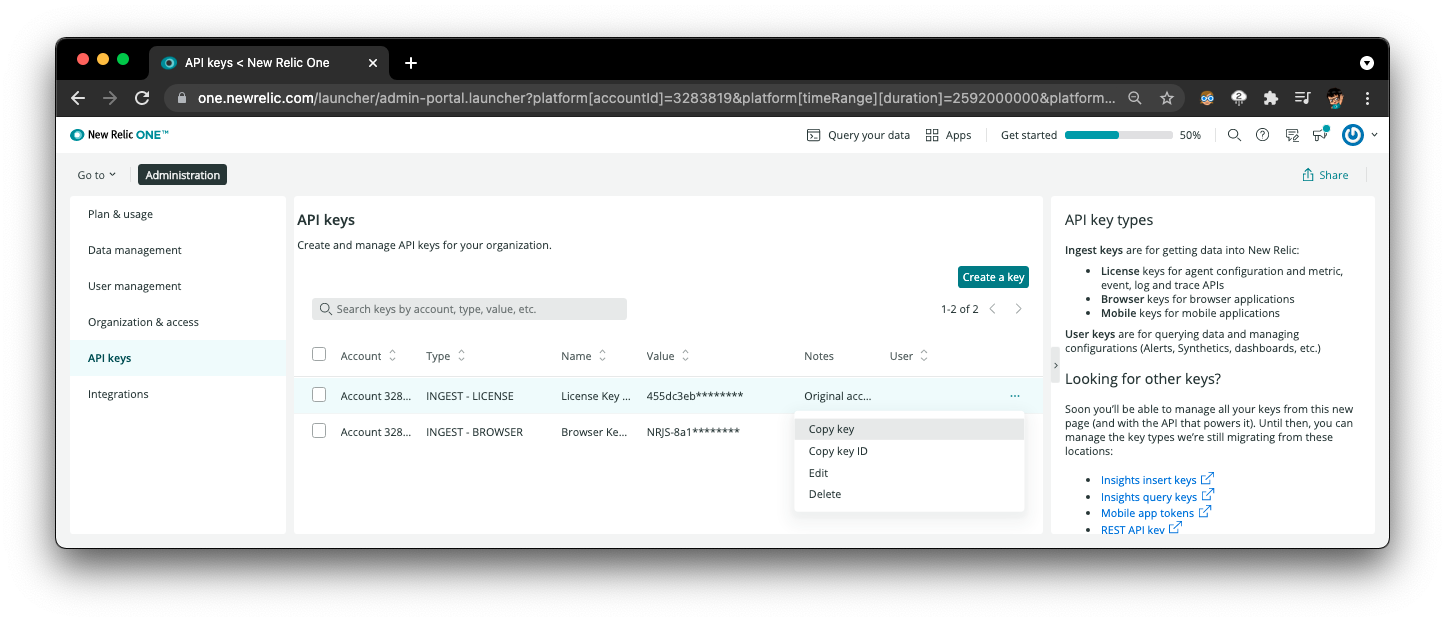
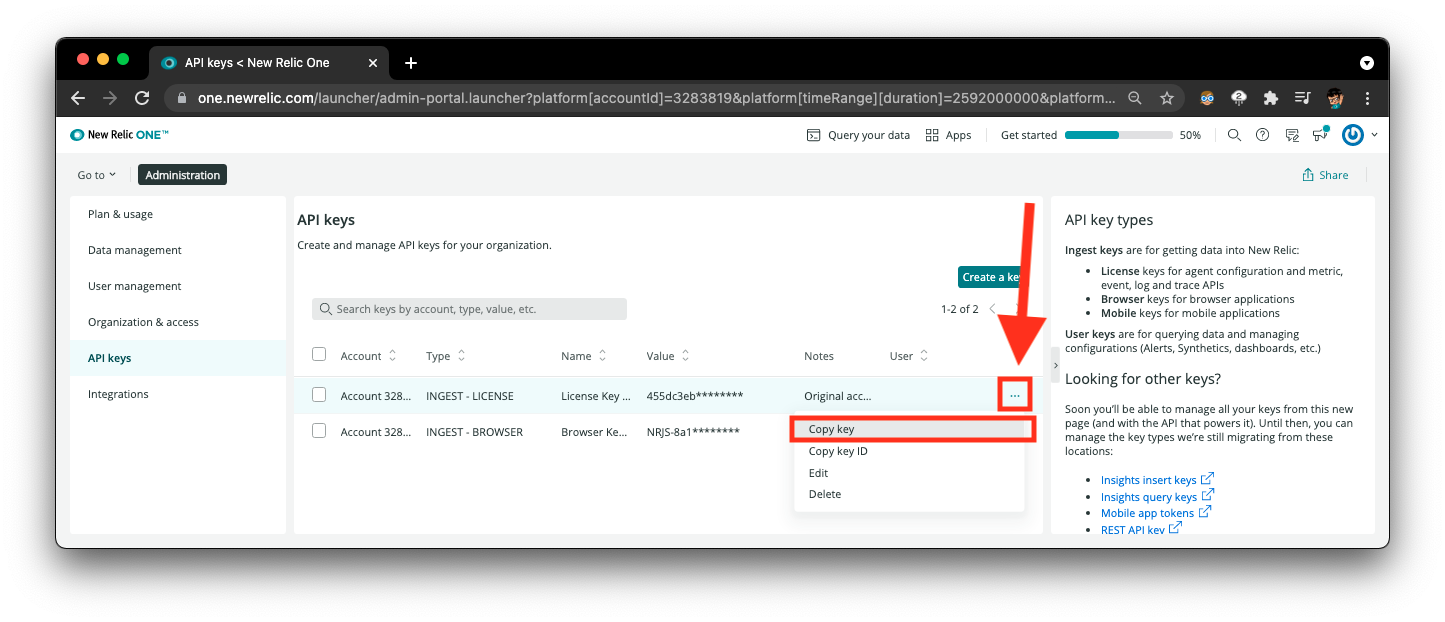
add

Changed region(s): [[0.5294, 0.336, 0.7163, 0.7331]]

diff --git a/src/components/VerticalSteps/index.jsx b/src/components/VerticalSteps/index.jsx
@@ -21,7 +21,7 @@ const VerticalSteps = () => {
       minH="400px"
     >
       <Steps activeStep={activeStep}>
-        <Step title="Sign up for your free New Relic One and get API Keys">
+        <Step title="Sign up for New Relic One">
           <StepContent>
             <Stack shouldWrapChildren spacing="4">
               <Text>
@@ -54,43 +54,7 @@ const VerticalSteps = () => {
                 src="/nr1.png"
                 alt="Bring team together"
                 />
-                <b>Get New Relic Ingest Key, Insert Key, and Account ID </b>
-                <Img
-                objectFit="cover"
-                w="full"
-                h="full"
-                htmlWidth="576px"
-                htmlHeight="420px"
-                src="/steps/5.png"
-                alt="Bring team together"
-                />
-                 <Img
-                objectFit="cover"
-                w="full"
-                h="full"
-                htmlWidth="576px"
-                htmlHeight="420px"
-                src="/steps/6.png"
-                alt="Bring team together"
-                />
-                 <Img
-                objectFit="cover"
-                w="full"
-                h="full"
-                htmlWidth="576px"
-                htmlHeight="420px"
-                src="/steps/7.png"
-                alt="Bring team together"
-                />
-                <Img
-                objectFit="cover"
-                w="full"
-                h="full"
-                htmlWidth="576px"
-                htmlHeight="420px"
-                src="/steps/8.png"
-                alt="Bring team together"
-                />
+                
               <HStack>
                 <Button size="sm" variant="ghost" isDisabled>
                   Back
@@ -102,19 +66,10 @@ const VerticalSteps = () => {
             </Stack>
           </StepContent>
         </Step>
-        <Step title="Deploy Sample Site">
+        <Step title="Configure and Deploy your app">
           <StepContent>
             <Stack shouldWrapChildren spacing="4">
-              <b>Fill the New Relic environmental variables in the Netlify deployment step.</b>
-              <Img
-                objectFit="cover"
-                w="full"
-                h="full"
-                htmlWidth="576px"
-                htmlHeight="420px"
-                src="/steps/2.png"
-                alt="Bring team together"
-                />
+              <b>Click the Deploy to Netlify badge. Link your Github Account.</b>
               <Link href="https://app.netlify.com/start/deploy?repository=https://github.com/lazyplatypus/jank-stack" isExternal>
               <Img
                 objectFit="cover"
@@ -125,16 +80,82 @@ const VerticalSteps = () => {
                 alt="Bring team together"
                 />
                 </Link>
-              <Link href="https://www.gatsbyjs.com/dashboard/deploynow?url=https://github.com/lazyplatypus/jank-stack" isExternal>
               <Img
                 objectFit="cover"
                 w="full"
                 h="full"
-                maxWidth="200px"
-                src="https://www.gatsbyjs.com/deploynow.svg"
-                alt="Bring team together"
+                htmlWidth="576px"
+                htmlHeight="420px"
+                src="/steps/4.png"
+                alt="Github Signup"
                 />
-                </Link>
+            
+              <HStack>
+                <Button size="sm" onClick={prevStep} variant="ghost">
+                  Back
+                </Button>
+                <Button size="sm" onClick={nextStep}>
+                  Next
+                </Button>
+              </HStack>
+            </Stack>
+          </StepContent>
+        </Step>
+        <Step title="Add New Relic API Keys on Netlify">
+          <StepContent>
+            <Stack shouldWrapChildren spacing="4">
+
+              <Img
+                objectFit="cover"
+                w="full"
+                h="full"
+                htmlWidth="576px"
+                htmlHeight="420px"
+                src="/steps/2.png"
+                alt="Github Signup"
+                />
+                <Text>For <b>NEW RELIC INGEST LICENSE KEY</b> head to <a href="https://one.newrelic.com">New Relic One</a>, click on the account dropdown menu on the top right, and select <b>API KEYS</b></Text>
+                <Img
+                objectFit="cover"
+                w="full"
+                h="full"
+                htmlWidth="576px"
+                htmlHeight="420px"
+                src="/steps/5.png"
+                alt="Github Signup"
+                />
+                <Text>For <b>NEW RELIC INSIGHTS INSERT KEY and NEW RELIC ACCOUNT ID</b> click on the link on the right menu bar called <b>Insights Insert Keys</b></Text>
+                <Img
+                objectFit="cover"
+                w="full"
+                h="full"
+                htmlWidth="576px"
+                htmlHeight="420px"
+                src="/steps/6.png"
+                alt="Github Signup"
+                />
+                <Text>Click the blue add symbol next to Insert Key</Text>
+                <Img
+                objectFit="cover"
+                w="full"
+                h="full"
+                htmlWidth="576px"
+                htmlHeight="420px"
+                src="/steps/7.png"
+                alt="Github Signup"
+                />
+                <Text>You should be able to find the Account ID next to <b>Account: </b> and the Insert Key next to <b>Key: </b> </Text>
+                <Img
+                objectFit="cover"
+                w="full"
+                h="full"
+                htmlWidth="576px"
+                htmlHeight="420px"
+                src="/steps/8.png"
+                alt="Github Signup"
+                />
+
+
               <HStack>
                 <Button size="sm" onClick={prevStep} variant="ghost">
                   Back

diff --git a/src/components/Landing/App.jsx b/src/components/Landing/App.jsx
@@ -42,7 +42,7 @@ export function Landing() {
           // pt="6"
           >
             <Heading as="h1" size="3xl" fontWeight="extrabold">
-             Dont' let your JAMStack app become a JANKStack.
+             Dont' let your JamStack app become a JankStack.
             </Heading>
             <Text color={mode('gray.600', 'gray.400')} mt="5" fontSize="xl">
               When you’re building a large e-commerce site, SaaS application or personal blog, there is more than likely a collection of Jank building up. The JANKStack movement exists to help you gain reliable visibility into the performance of your entire site to remove JANK from your website.
